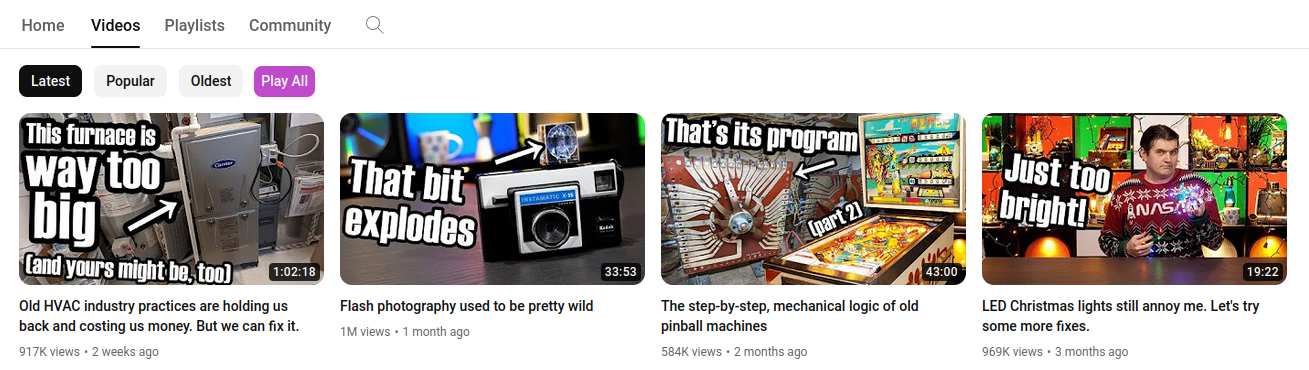
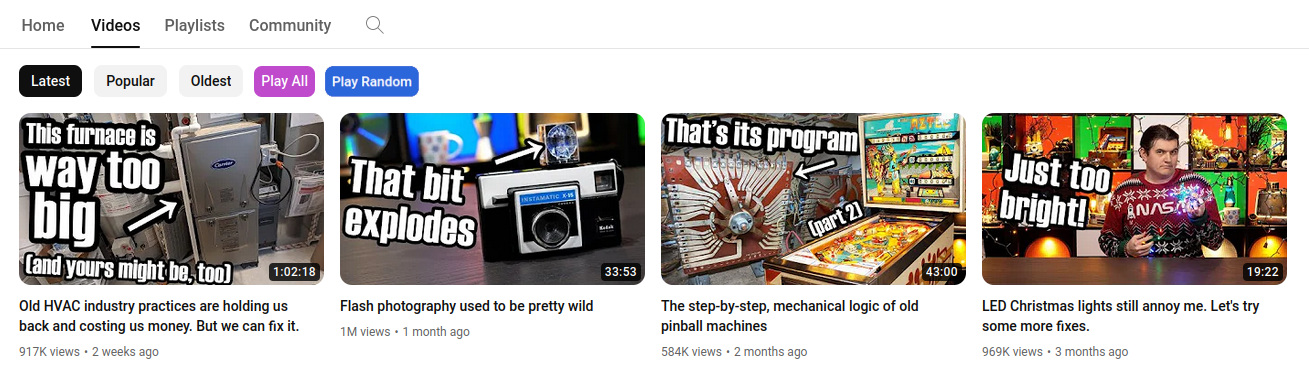
#13: Documentation of "Play Random"

Changed region(s): [[0.2445, 0.1784, 0.3361, 0.2676]]

diff --git a/README.md b/README.md
@@ -5,7 +5,7 @@
     <a href="#issues">Issues</a> |
     <a href="#license">License</a>
     <p>
-        A tiny userscript adding the Play-All button back to YouTube.
+        <strong>YTPA</strong>: A tiny userscript adding the Play-All button back to YouTube.
     </p>
 </div>
 
@@ -46,6 +46,11 @@ It may take a few seconds for the button to be dynamically added.
 When sorting by most popular, the button will take you to the "Popular videos" playlist.
 
 ![popular.png](readme/popular.png)
+
+
+### Playing Random
+
+It is possible to play all videos in random order by clicking the "Play Random"-button.
 
 
 ### Shorts

diff --git a/README - MIRROR.md b/README - MIRROR.md
@@ -47,6 +47,11 @@ When sorting by most popular, the button will take you to the "Popular videos" p
 ![popular.png](https://github.com/RobertWesner/YouTube-Play-All/raw/main/readme/popular.png)
 
 
+### Playing Random
+
+It is possible to play all videos in random order by clicking the "Play Random"-button.
+
+
 ### Shorts
 
 Shorts can be played both by latest and most popular.
